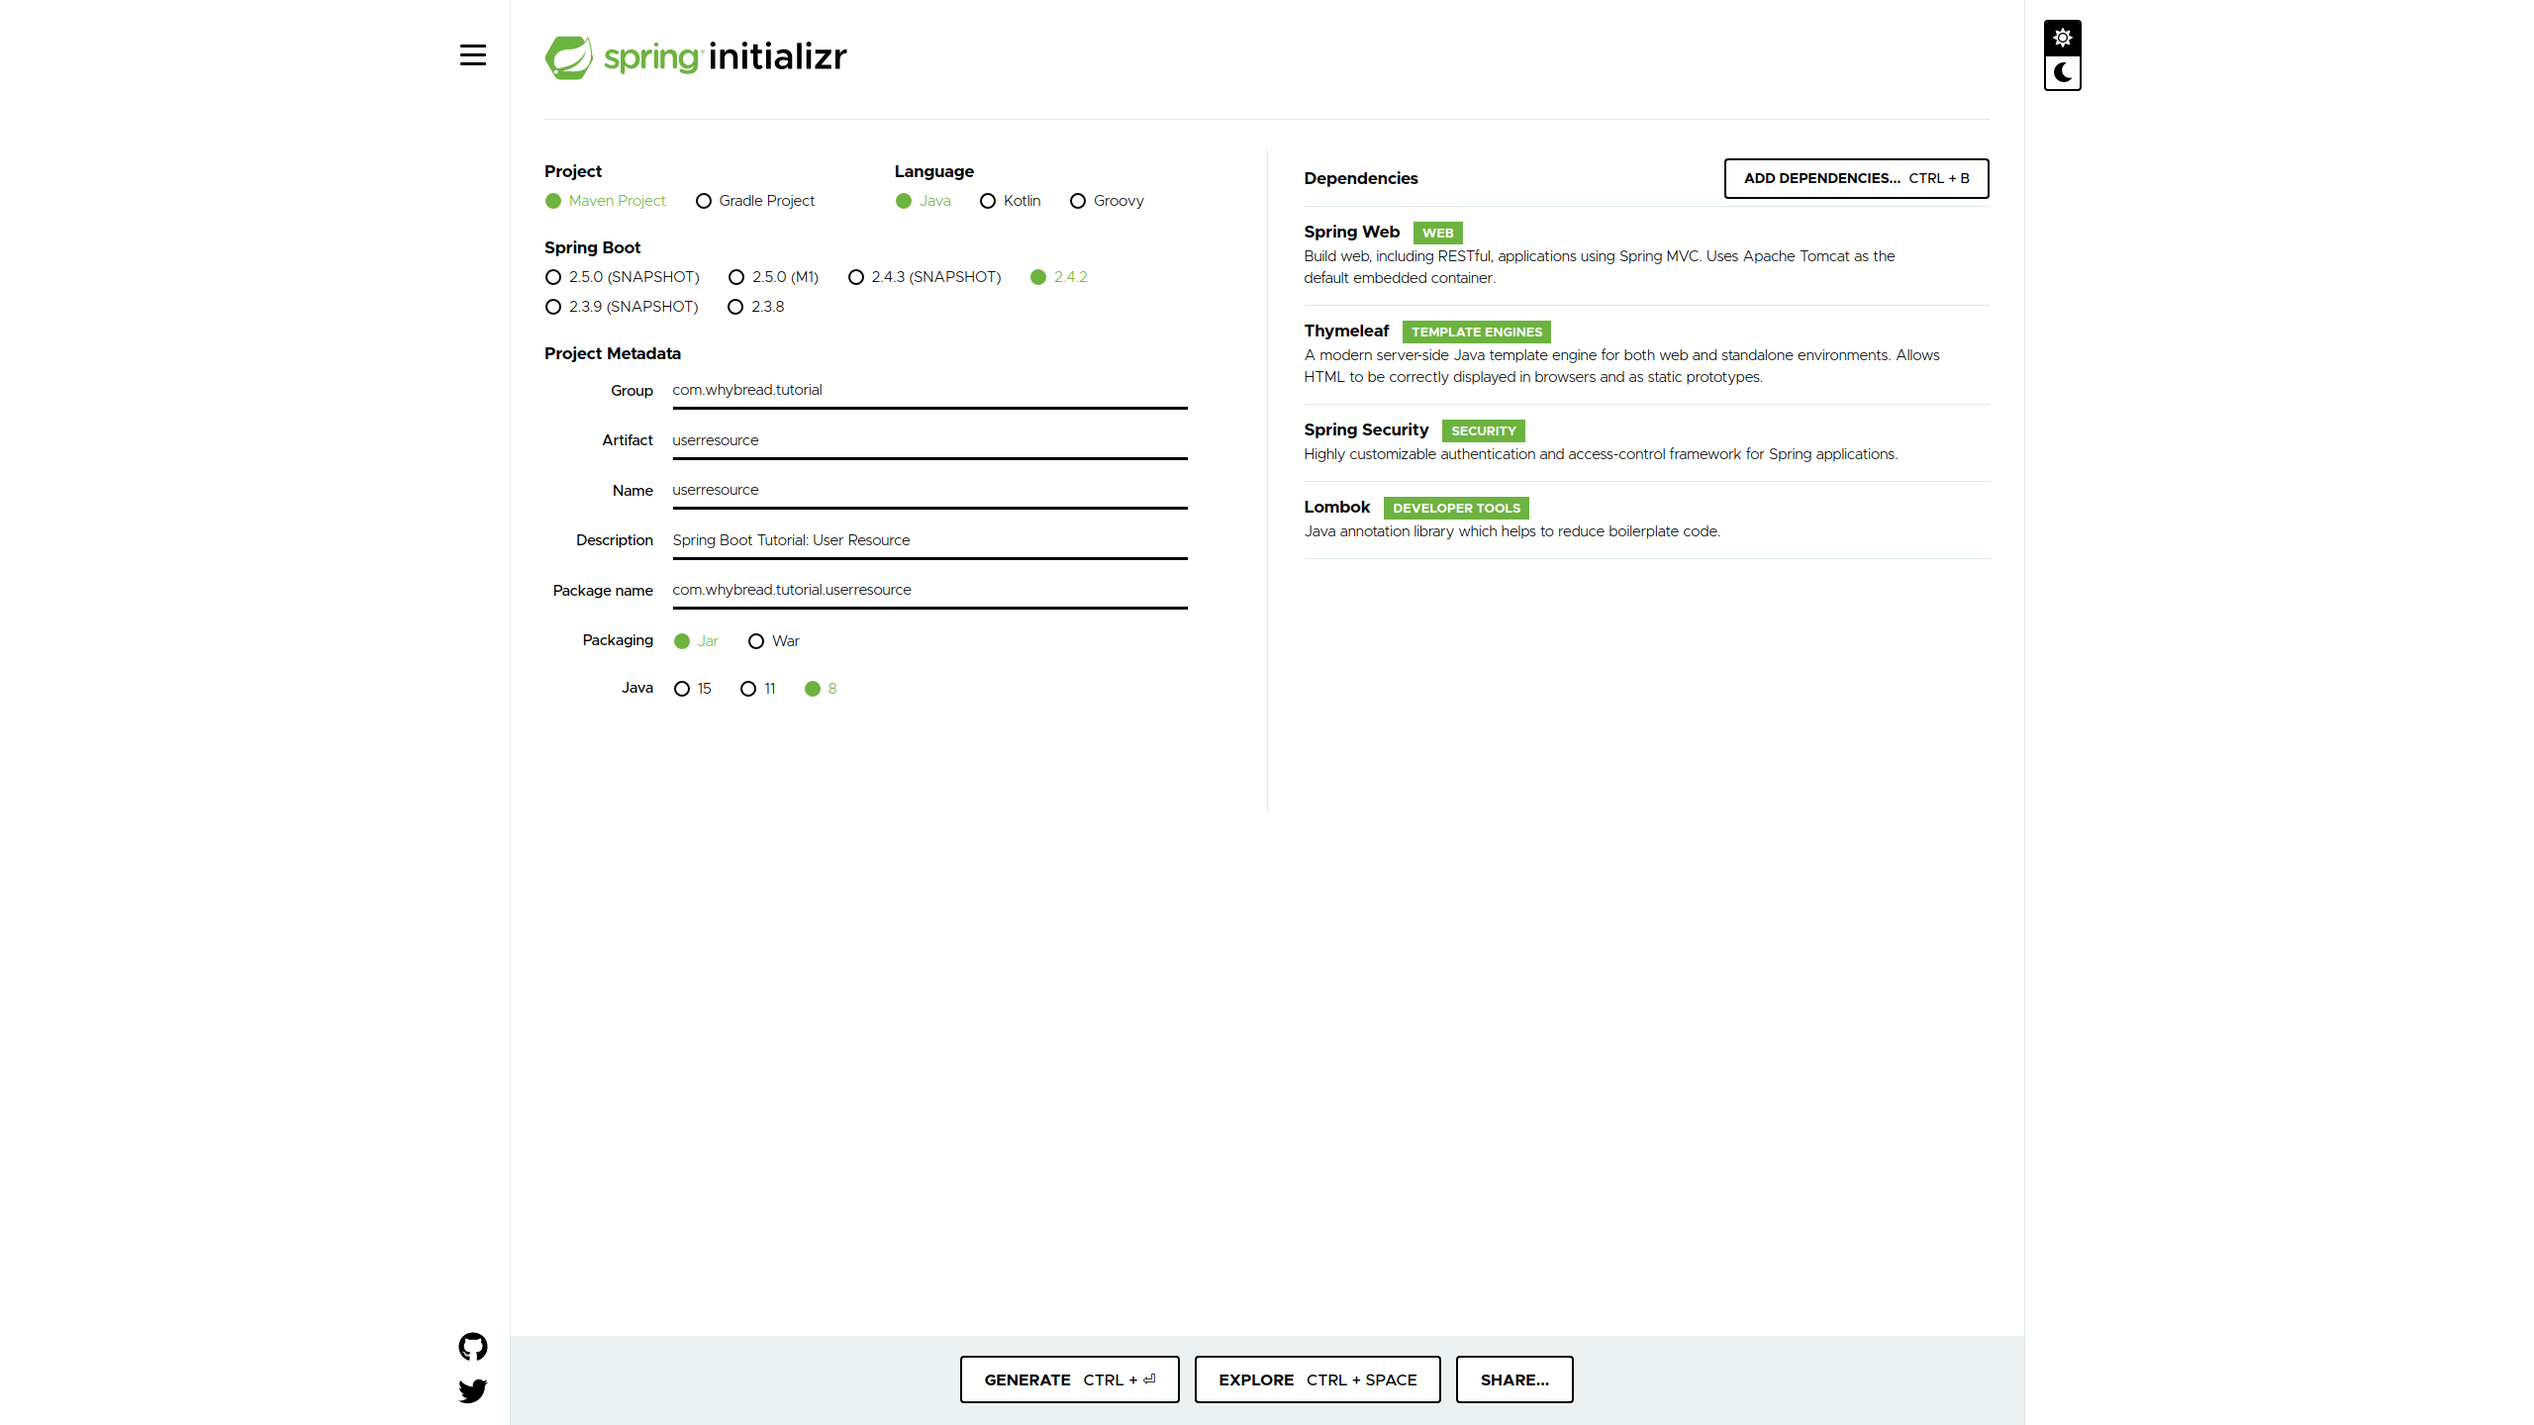
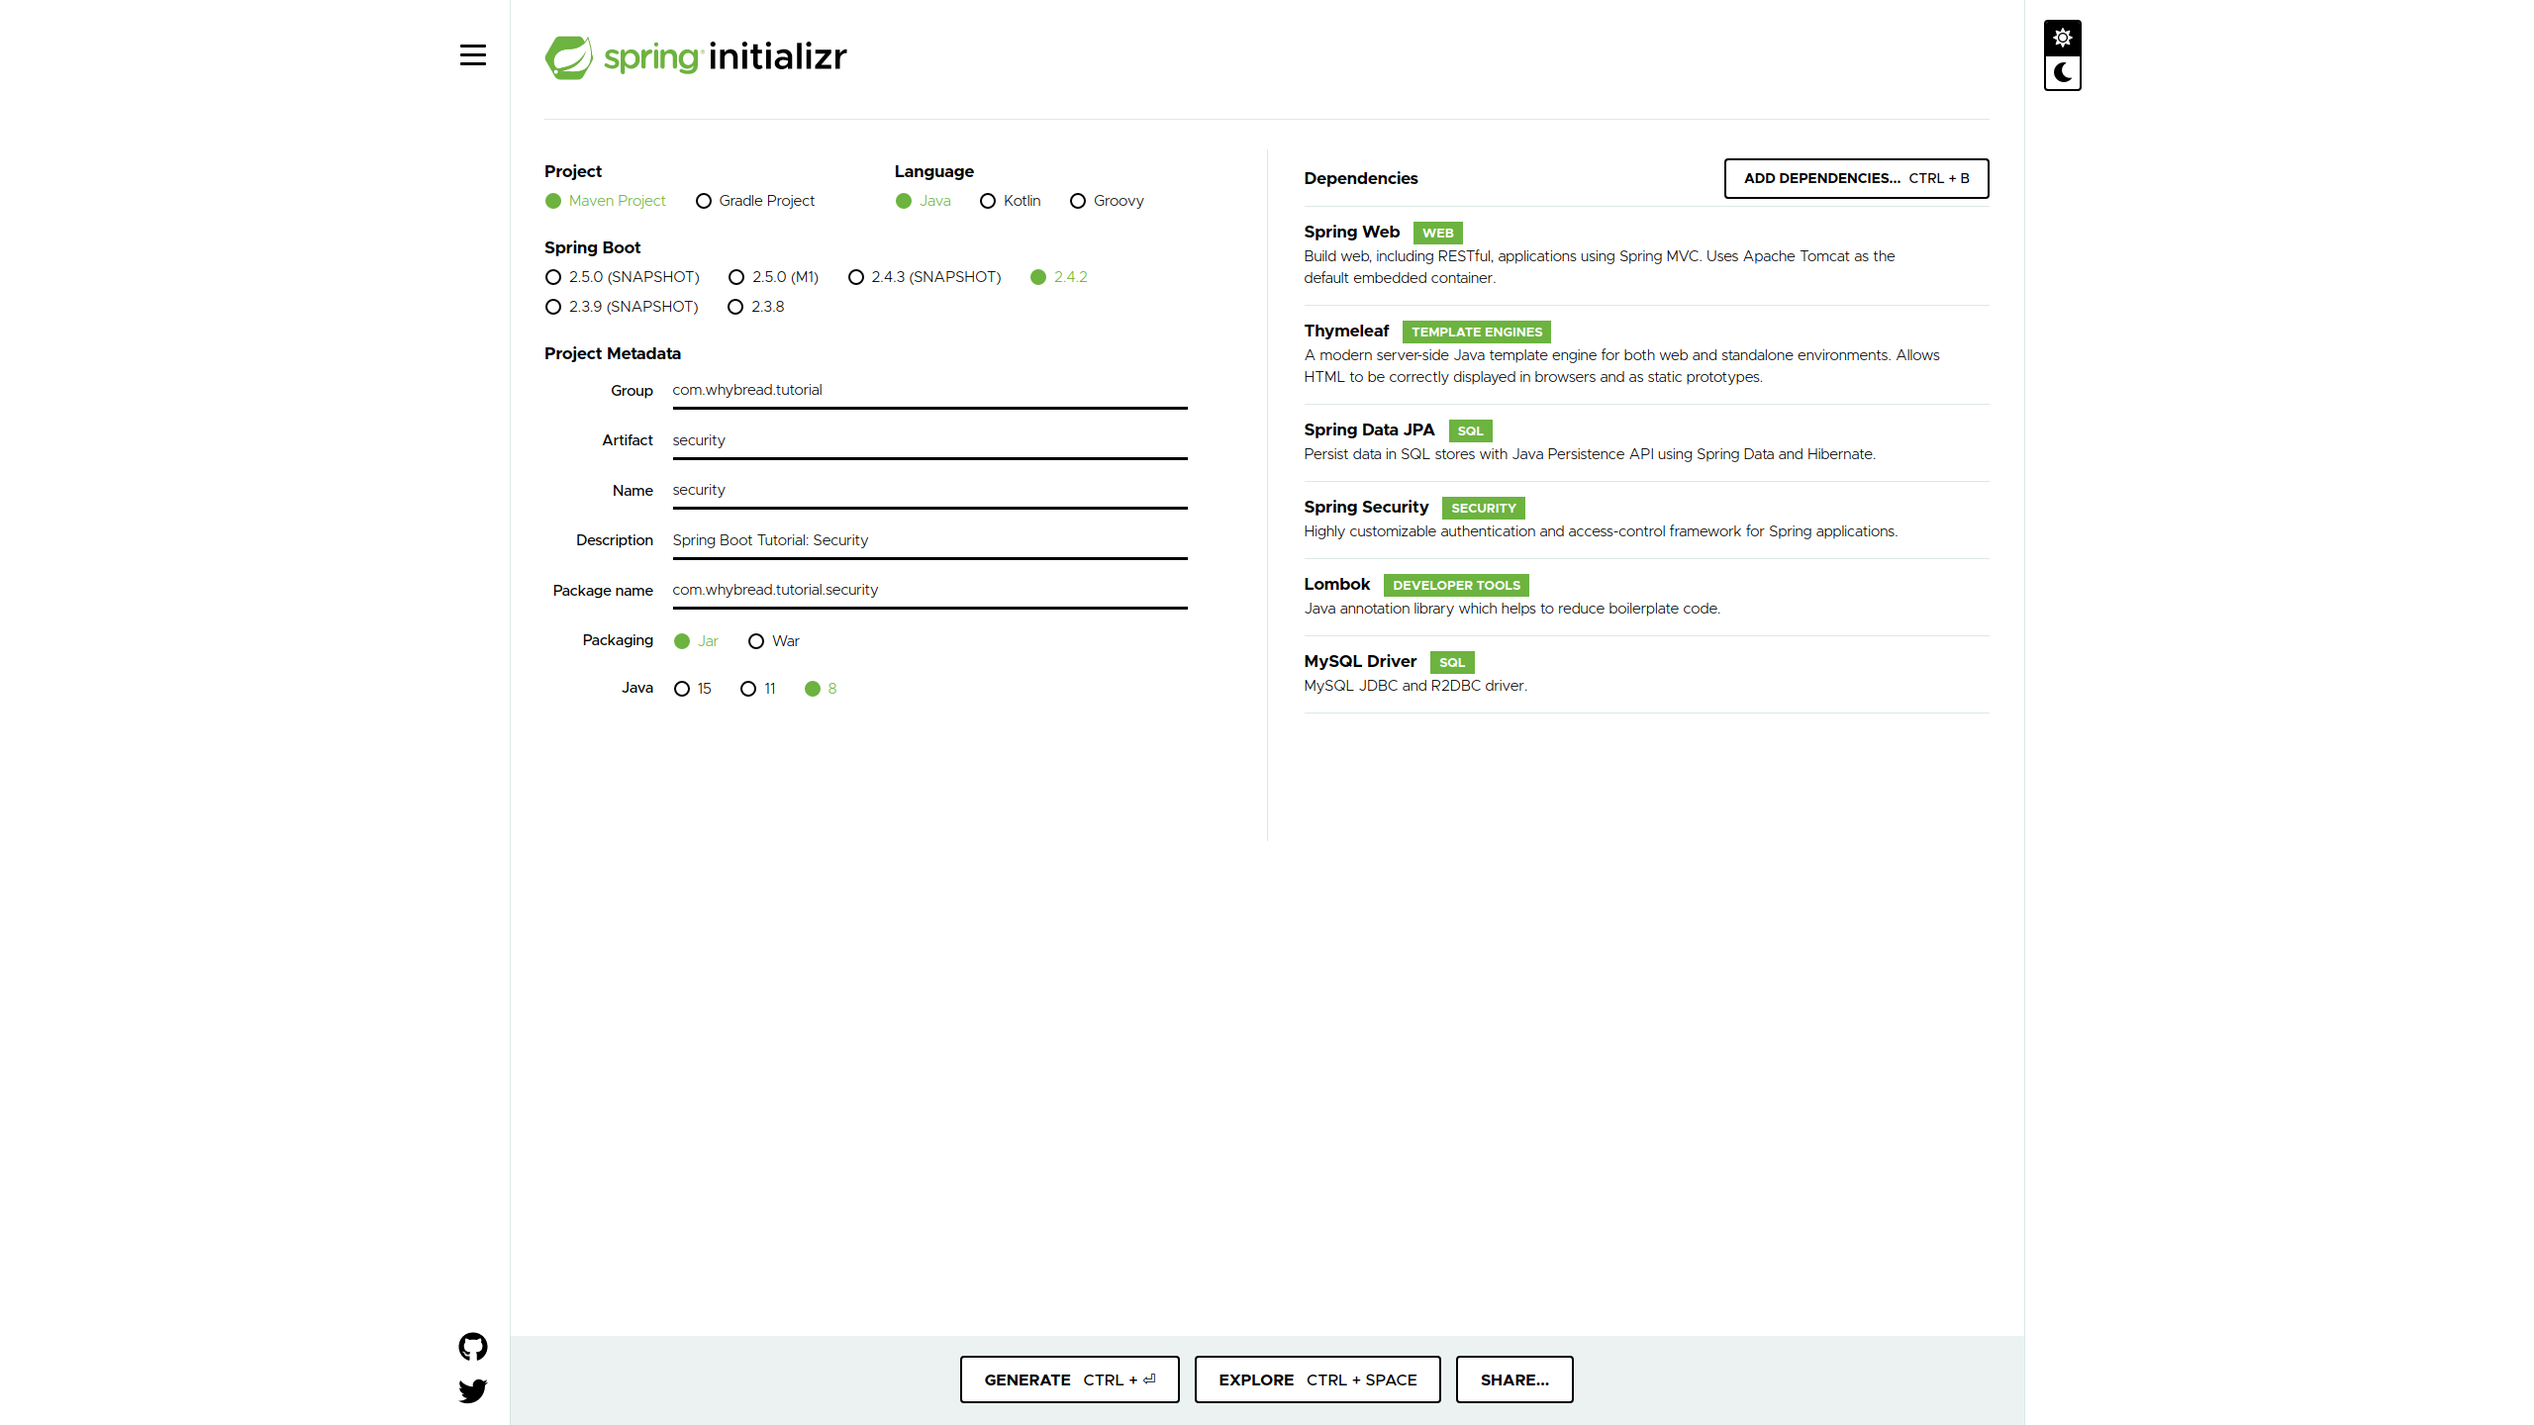
Chapter 06 done

Changed region(s): [[0.5, 0.2812, 0.75, 0.5], [0.3125, 0.375, 0.3438, 0.4062]]

diff --git a/06-security/src/main/java/com/whybread/tutorial/security/entity/UserEntity.java b/06-security/src/main/java/com/whybread/tutorial/security/entity/UserEntity.java
@@ -10,6 +10,8 @@ import javax.persistence.GeneratedValue;
 import javax.persistence.GenerationType;
 import javax.persistence.Id;
 
+import org.hibernate.annotations.DynamicInsert;
+import org.hibernate.annotations.DynamicUpdate;
 import org.springframework.security.core.GrantedAuthority;
 import org.springframework.security.core.authority.SimpleGrantedAuthority;
 import org.springframework.security.core.userdetails.UserDetails;
@@ -28,6 +30,15 @@ import lombok.NoArgsConstructor;
  */
 @Data
 @NoArgsConstructor(access = AccessLevel.PUBLIC)
+/*
+ * `@DynamicInsert`, `@DynamicUpdate` annotations are used to exclude `null` fields to save to DB.
+ * 
+ * Reference
+ *    [jpa insert 시 default 값 적용]
+ *    (https://dotoridev.tistory.com/6)
+ */
+@DynamicInsert
+@DynamicUpdate
 @Entity(name = "USER_TB")
 public class UserEntity implements UserDetails {
 
@@ -38,30 +49,30 @@ public class UserEntity implements UserDetails {
 
   @Id
   @GeneratedValue(strategy = GenerationType.IDENTITY)
-  @Column(name = "id")
+  @Column(name = "ID")
   private Long id;
-  @Column(name = "username")
+  @Column(name = "USERNAME")
   private String username;
-  @Column(name = "email")
+  @Column(name = "EMAIL")
   private String email;
-  @Column(name = "password_encrypted")
-  private String passwordEncrypted;
-  @Column(name = "role")
+  @Column(name = "PASSWORD_HASHED")
+  private String passwordHashed;
+  @Column(name = "ROLE")
   private String role;
-  @Column(name = "is_deleted")
+  @Column(name = "IS_DELETED")
   private boolean isDeleted;
-  @Column(name = "created_datetime")
+  @Column(name = "CREATED_DATETIME")
   private String created_datetime;
-  @Column(name = "updated_datetime")
+  @Column(name = "UPDATED_DATETIME")
   private String updated_datetime;
-  @Column(name = "description")
+  @Column(name = "DESCRIPTION")
   private String description;
 
   @Builder
-  public UserEntity(String username, String email, String passwordEncrypted, String role) {
+  public UserEntity(String username, String email, String passwordHashed, String role) {
     this.username = username;
     this.email = email;
-    this.passwordEncrypted = passwordEncrypted;
+    this.passwordHashed = passwordHashed;
     this.role = role;
   }
 
@@ -81,7 +92,7 @@ public class UserEntity implements UserDetails {
 
   @Override
   public String getPassword() {
-    return passwordEncrypted;
+    return passwordHashed;
   }
 
   @Override

diff --git a/06-security/src/main/java/com/whybread/tutorial/security/service/UserService.java b/06-security/src/main/java/com/whybread/tutorial/security/service/UserService.java
@@ -51,7 +51,7 @@ public class UserService implements UserDetailsService {
     UserEntity userEntity = UserEntity.builder()
       .username(userDto.getUsername())
       .email(userDto.getEmail())
-      .passwordEncrypted(passwordEncoder.encode(userDto.getPassword()))
+      .passwordHashed(passwordEncoder.encode(userDto.getPassword()))
       .role("ROLE_USER")
       .build();
 
@@ -95,7 +95,7 @@ public class UserService implements UserDetailsService {
     if( userEntity == null ){
       log.info("[Invalid RemoveUser]Invalid username or password: Accounts not found.");
       return false;
-    }else if( !passwordEncoder.matches(userDto.getPassword(), userEntity.getPasswordEncrypted()) ) {
+    }else if( !passwordEncoder.matches(userDto.getPassword(), userEntity.getPasswordHashed()) ) {
       log.info("[Invalid RemoveUser]Invalid username or password: Accounts not found.");
       return false;
     }else if( userEntity.isDeleted() ) {
@@ -107,7 +107,7 @@ public class UserService implements UserDetailsService {
     String description = "Removed user: Username(" + userEntity.getUsername() + "), Email(" + userEntity.getEmail() + ") with Role(" + userEntity.getRole() + ").";
     userEntity.setUsername(null);
     userEntity.setEmail(null);
-    userEntity.setPasswordEncrypted(null);
+    userEntity.setPasswordHashed(null);
     userEntity.setRole(null);
     userEntity.setDescription(description);
     userEntity.setDeleted(true);

diff --git a/06-security/src/main/java/com/whybread/tutorial/security/config/WebSecurityConfig.java b/06-security/src/main/java/com/whybread/tutorial/security/config/WebSecurityConfig.java
@@ -133,7 +133,7 @@ public class WebSecurityConfig extends WebSecurityConfigurerAdapter {
    *    [Redirect to the Previous URL After Login with Spring Security | Baeldung]
    *    (https://www.baeldung.com/spring-security-redirect-login) 
    */
-  public class RefererAuthenticationSuccessHandler
+  private class RefererAuthenticationSuccessHandler
     extends SavedRequestAwareAuthenticationSuccessHandler
     implements AuthenticationSuccessHandler {
 

diff --git a/06-security/README.md b/06-security/README.md
@@ -1,46 +1,137 @@
-# Chapter 06: User Resource
+# Chapter 06: Security
 
-References
+In this chapter, we will study how to use **Spring Security** on your application.
 
-1. Static resource mapping
+Through this, you will learn how to **authenticate** and **authorize** requests in both HTTP & method level.
 
-English:
-[Serve Static Resources with Spring | Baeldung](https://www.baeldung.com/spring-mvc-static-resources)
+## Make a New Spring Boot Project
 
-Korean:
-[[Spring Boot] 정적 리소스 지원(static resources)](https://ict-nroo.tistory.com/100)
-[[스프링 부트] 정적 리소스 - static resource](https://steady-hello.tistory.com/52)
+Make a new maven project using [**Spring Initializr**](https://start.spring.io/).
 
-2. Spring Security
-
-
-
-
-
-
-Below texts are lorem ipsum.
-
-In this chapter, we will study how to make a **Spring Boot** application that can use other APIs through HTTP request with [`WebClient`](https://docs.spring.io/spring-framework/docs/current/javadoc-api/org/springframework/web/reactive/function/client/WebClient.html), which is strongly recommend to be used instead of `RestTemplate`.
-
-## Make a new Spring Boot project
-
-Make a new maven project using  [**Spring Initializr**](https://start.spring.io/).
-
-Add  `spring-boot-starter-web`, `spring-boot-starter-webflux` and  `lombok` to the dependencies just as below.
+Add the dependencies just as below.
 
 ![image01](./image01.png)
 
-You can also refer to the [`pom.xml`](./pom.xml).
+You can also refer to [`pom.xml`](./pom.xml).
 
-## Implement your application
-In the Java source codes, there are enough comments to help your study. I recommend you to read in this order:
 
-1. `com.whybread.tutorial.apiclient.controller.ClientController.java`
-2. `com.whybread.tutorial.apiclient.service.ClientService.java`
-3. `com.whybread.tutorial.apiclient.configuration.WebClientConfiguration.java`
-4. `application.yml`
 
-Additional informations are commented in the source codes.
+## Prepare for JPA
 
-## WebClient
-Traditionally, `RestTemplate` was a major way to perform HTTP requests in a Spring Boot application. However, as of Spring Boot 5.0, it is in maintenance mode, with only minor requests for changes and bugs to be accepted going forward. So Spring Boot strongly recommend us to consider using `WebClient`.
+If you don't want to handle persistence, you can also test the features of Spring Security with pseudo data. However, in this project, JPA is used to access to  `User` data.
+
+### Database
+
+In my case, I used `mysql` for this project's DBMS.
+
+I made a database named `db_bakery` (please use your own name).
+```
+mysql> CREATE DATABASE `db_bakery`;
+```
+Then I used a `.sql` file to configure a table `USER_TB`. The file is provided in the project root: [table-generator-user.sql](./table-generator-user.sql). In my case, the full location of the file was `/var/lib/mysql/my-data/table-generator-user.sql`. You should write your file's location instead.
+```
+mysql> USE `db_bakery`;
+mysql> SOURCE /var/lib/mysql/my-data/table-generator-user.sql;
+```
+You can handle the table now.
+```
+mysql> SHOW COLUMNS FROM `USER_TB`;
+mysql> SELECT * FROM `USER_TB`;
+```
+
+The database's current state is what the project is assuming. If you want to modify the database schema, you should be aware of changing the Java codes too.
+
+### Write application.yml
+You can refer to [application.yml](./src/main/resources/application.yml) file.
+
+The file consists of information for persistence. It's short and clear to understand, and some references used to implement is provided as a comment. You need to change `spring.datasource.*` properties to suit your case.
+
+
+## Project Tree for the Web Application
+```
+06-security
+├─ pom.xml
+├─ table-generator-user.sql
+└─ src
+   └─ main
+      ├─ java
+      │  └─ com.whybread.tutorial.security
+      │     ├─ UserresourceApplication.java
+      │     ├─ config
+      │     │  ├─ WebMvcConfig.java
+      │     │  └─ WebSecurityConfig.java
+      │     ├─ controller
+      │     │  ├─ AdminController.java
+      │     │  ├─ HomeController.java
+      │     │  └─ UserController.java
+      │     ├─ dto
+      │     │  └─ UserDto.java
+      │     ├─ entity
+      │     │  └─ UserEntity.java
+      │     ├─ repository
+      │     │  └─ UserRepository.java
+      │     └─ service
+      │        ├─ AuthenticationService.java
+      │        └─ UserService.java
+      └─ resources
+         ├─ application.yml
+         ├─ public
+         │  └─ css
+         │     └─ style.css
+         ├─ static
+         └─ templates
+            ├─ index.html
+            ├─ login.html
+            ├─ register.html
+            └─ removeUser.html
+```
+
+## Project Description
+
+This project can be divided into four key parts. In this chapter, it is briefly introduced what those are.
+
+For details, please read the source codes with comments. References are also in the comments.
+
+### 1. JPA
+To manage persistence in java code easily, two classes are used for JPA. Just a simple `Entity` class and a `Repository` class.
+
+- `com.whybread.tutorial.security.entity.UserEntity`
+- `com.whybread.tutorial.security.entity.UserRepository`
+
+## 2. Spring Security (Authentication & Authorization)
+First of all, `WebSecurityConfig` is a `@Configuration` annotated class for Spring Security configuration. It mainly deals with HTTP authentication and authorization. Also, Spring Security based login is covered.
+
+For the Spring Security authentication, we must implement `UserDetialsService` interface, and `UserService` is my custom implementation. It implements `loadUserByUsername(String username)` method that returns a `@UserDetails` object. There are also a few `Service` methods.
+
+`AuthenticationService` is used for method level authorization. With a `@PreAuthorize` annotation, you can use your own condition to authorize the user when a method is invoked.
+
+- `com.whybread.tutorial.security.config.WebSecurityConfig`
+- `com.whybread.tutorial.security.service.UserService`
+- `com.whybread.tutorial.security.service.AuthenticationService`
+
+## 3. Request Mapping (SpEL)
+I wanted to give users their own page just like Github. To do that, `UserController` class leveraged `@RequestMapping` annotation's strong `SpEL` support.
+`com.whybread.tutorial.security.controller.UserController`
+
+## 4. Static resources
+We can use `WebMvcConfig` class to map URLs to your own resource location.
+`com.whybread.tutorial.security.config.WebMvcConfig`
+
+## Etc
+
+### Templates (`.html`)
+There are a few HTML files in [`/src/main/resources/templates`](./src/main/resources/templates) directory. They are not mentioned above as it is not important to understand this chapter, but you can see them if you want.
+
+### URLs
+As the application doesn't serve a well-made kind view, you should know some URLs to test it.
+
+`/`: Index page
+`/index`: Redirects to index page.
+`/login`: Login page, redirects to index page if already logged in.
+`/logout`: Logout page, redirects to index page after logout.
+
+`/admin`: Admin page that users can only access with a role `ROLE_ADMIN`.
+`/public`:All public resources would be located under here. (e.x. `public/css/style.css`)
+
+`/test`:  A user page of the user '`test`'. Open to all users.
+`/test/settings`: A user setting page of the user '`test`'. Open to the user '`test`' only (and users with a role `ROLE_ADMIN`).
